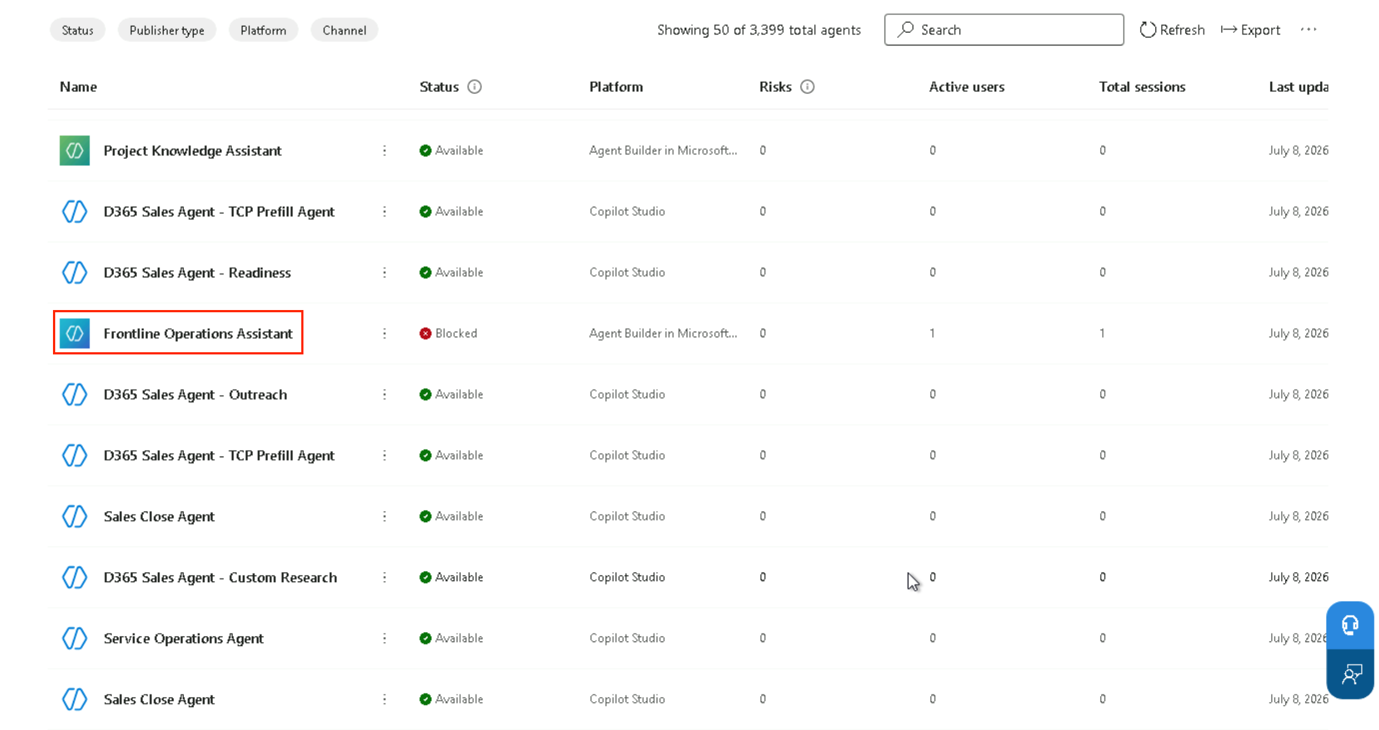
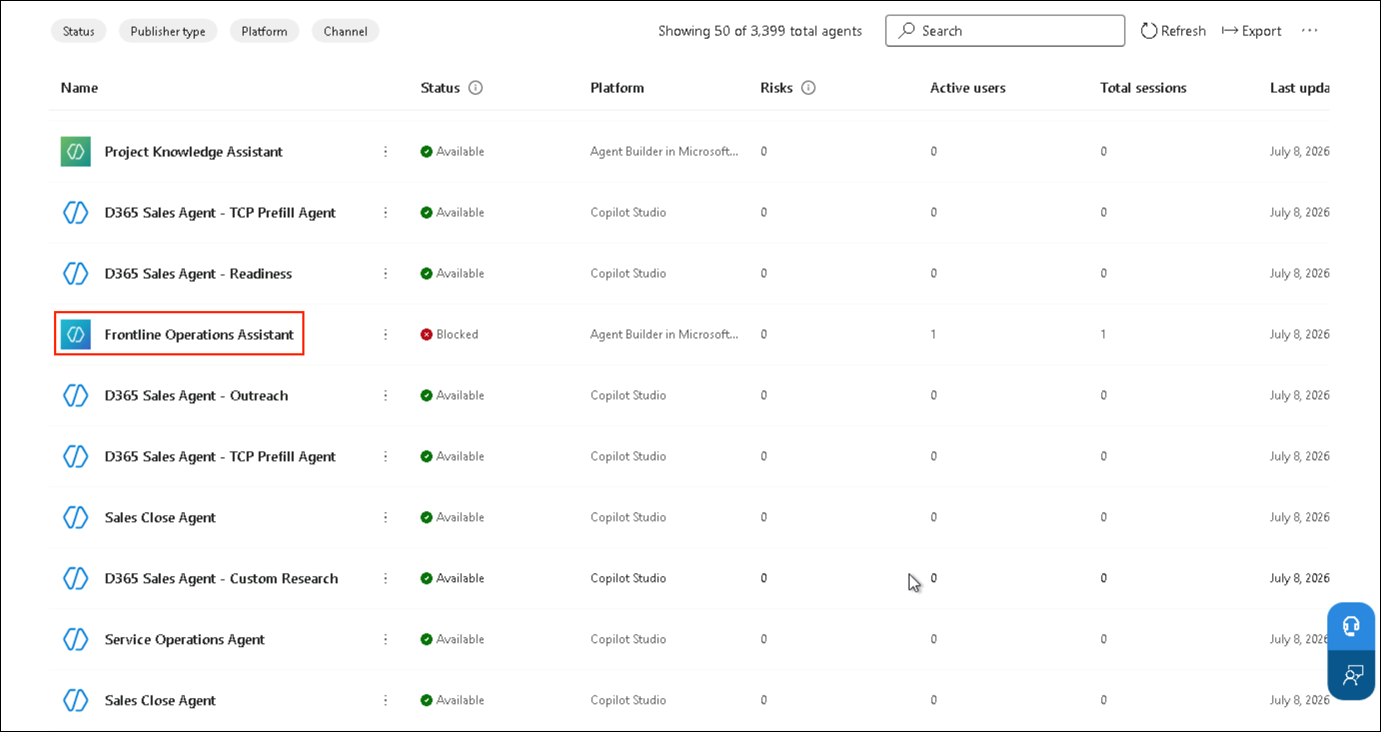
minor updates in day-2

diff --git a/Lab Guides/Day-2/Lab 7/lab5.md b/Lab Guides/Day-2/Lab 7/lab5.md
@@ -145,7 +145,7 @@ Patricia Gray (Regional operations manager) is seeking for an overview of the op
 
 ### Task 1: Identify Startup Checklist
 
-1. Navigate to `https://m365.cloud.microsoft/` Microsoft 365 copilot page.
+1. Navigate to Microsoft 365 copilot page using the URL.
 
      ```
      https://m365.cloud.microsoft/

diff --git a/Lab Guides/Day-2/Lab 8/lab6.md b/Lab Guides/Day-2/Lab 8/lab6.md
@@ -1,6 +1,6 @@
-# Lab 6 – Build a Store Operations Assistant Copilot Agent for trusted customer success at Zava Retail
+# Lab 6 - Build a Store Operations Assistant Copilot Agent for trusted customer success at Zava Retail
 
-## Estimated Duration:** 40 minutes
+## Estimated Duration: 40 minutes
 
 ## Overview
 

diff --git a/Lab Guides/Day-2/Lab 10/Lab10.md b/Lab Guides/Day-2/Lab 10/Lab10.md
@@ -1,6 +1,6 @@
 # Govern and Monitor the Zava Retail Agent Ecosystem with Agent 365
 
-## Estimated Duration: 40 minutes
+## Estimated Duration: 60 minutes
 
 ## Overview
 
